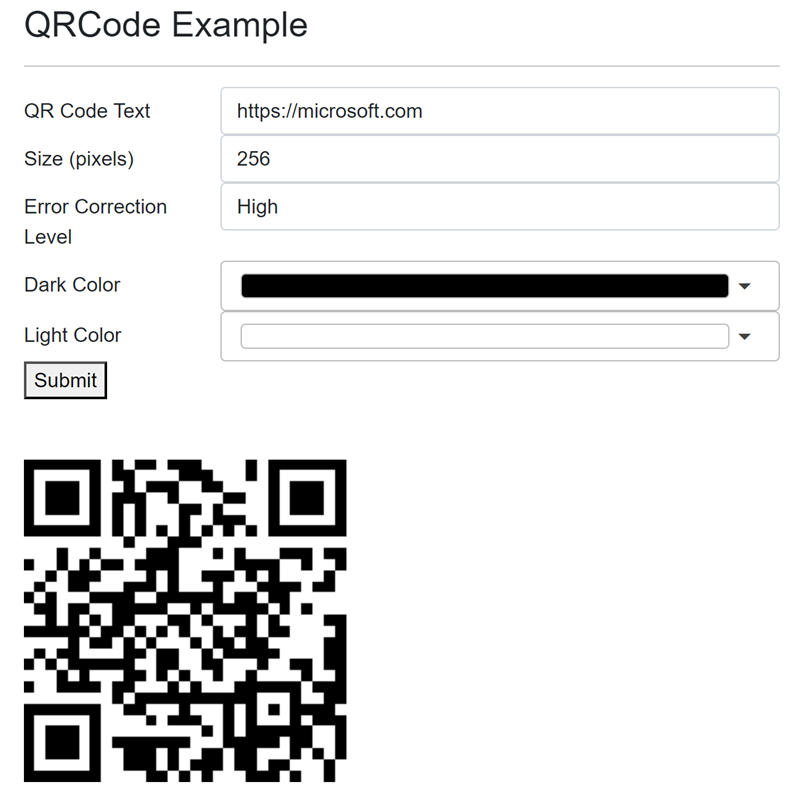
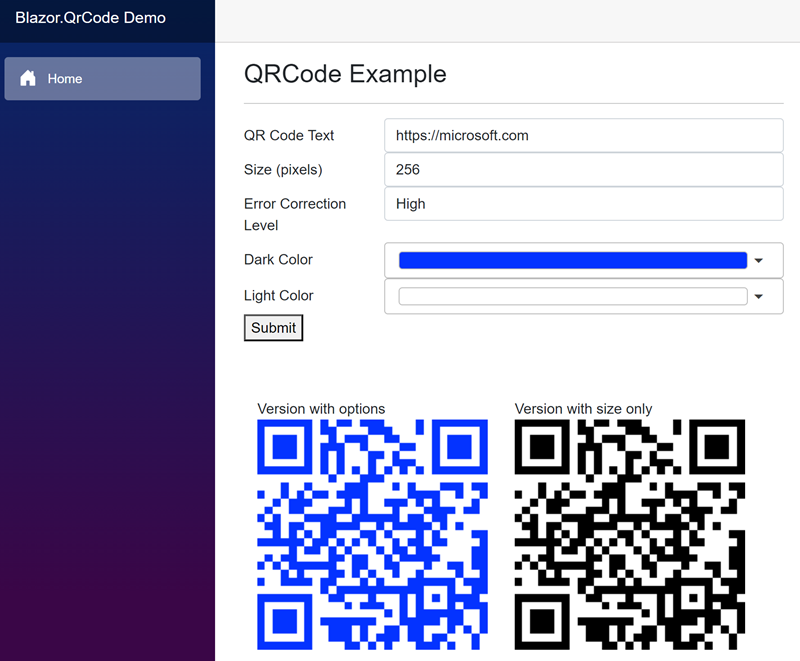
feat: add parameter Size

diff --git a/Blazor.QrCode/QrCode.razor.cs b/Blazor.QrCode/QrCode.razor.cs
@@ -10,31 +10,10 @@ namespace Blazor.QrCode
         private QrCodeModule? _qrCodeModule = null;
 
         private string _text = InitialText;
+        private int? _size = null;
 
         private QrCodeOptions? _options = null;
 
-        protected override async Task OnAfterRenderAsync(bool firstRender)
-        {
-            await base.OnAfterRenderAsync(firstRender).ConfigureAwait(false);
-            if (firstRender)
-            {
-                try
-                {
-                    //if (_qrCodeModule is not null)
-                    //{
-                    //    await _qrCodeModule.DisposeAsync();
-                    //}
-                    //await CreateOrUpdateQrCode(_text);
-                }
-                catch (Exception ex)
-                {
-                    if (ModuleCreator != null)
-                    {
-                        await ModuleCreator.JsInstance.InvokeVoidAsync("console.log", $"***Exception:{ex}").ConfigureAwait(false);
-                    }
-                }
-            }
-        }
 
         /// <summary>
         /// Method invoked when the component has received parameters from its parent in
@@ -49,18 +28,55 @@ namespace Blazor.QrCode
             if (Options is not null && !Options.Equals(_options))
             {
                 _options = Options;
-                _options.SetChangedMode();
-                //if (_text != Text)
+                //_options.SetChangedMode();
+                _text = Text;
+                _size = Size;
+                if (_size.HasValue)
                 {
-                    _text = Text;
+                    _options.Size = _size.Value;
                 }
                 await UpdateTextAsync(_text, _options);
+            }
+
+            // check if size is changed
+            if (_size != Size && _options is null)
+            {
+                _size = Size;
+                if (_size.HasValue)
+                {
+                    // if size is changed then use any latest text
+                    _text = Text;
+
+                    // default size must set modify flag too
+                    var qrCodeOptions = new QrCodeOptions { Size = 0 };
+                    qrCodeOptions.Size = _size.Value;
+                    await UpdateTextAsync(_text, qrCodeOptions);
+                }
+                else
+                {
+                    // if text is changed, change it too
+                    if (_text != Text)
+                    {
+                        _text = Text;
+                        await UpdateTextAsync(_text);
+                    }
+                }
             }
 
             if (_text != Text && _options is null)
             {
                 _text = Text;
-                await UpdateTextAsync(_text);
+                if (_size.HasValue)
+                {
+                    // default size must set modify flag too
+                    var qrCodeOptions = new QrCodeOptions { Size = 0 };
+                    qrCodeOptions.Size = _size.Value;
+                    await UpdateTextAsync(_text, qrCodeOptions);
+                }
+                else
+                {
+                    await UpdateTextAsync(_text);
+                }
             }
         }
 

diff --git a/Blazor.QrCode/QrCodeOptions.cs b/Blazor.QrCode/QrCodeOptions.cs
@@ -4,6 +4,14 @@ namespace Blazor.QrCode;
 
 public class QrCodeOptions : IEquatable<QrCodeOptions>
 {
+    private Color _colorDark = DefaultColorDark;
+
+    private Color _colorLight = DefaultColorLight;
+
+    private EErrorCorrectionLevel _errorCorrectionLevel = DefaultErrorCorrectionLevel;
+
+    private int _size = DefaultSize;
+
     /// <summary>Indicates whether the current object is equal to another object of the same type.</summary>
     /// <param name="other">An object to compare with this object.</param>
     /// <returns>
@@ -55,14 +63,42 @@ public class QrCodeOptions : IEquatable<QrCodeOptions>
         return HashCode.Combine(Size, ColorDark, ColorLight, (int)ErrorCorrectionLevel);
     }
 
-    public void SetChangedMode(bool changed = true)
+    //public void SetChangedMode(bool changed = true)
+    //{
+    //    IsModified = changed;
+    //}
+
+    public Color ColorDark
     {
-        IsChanged = changed;
+        get
+        {
+            return _colorDark;
+        }
+        set
+        {
+            if (_colorDark != value)
+            {
+                _colorDark = value;
+                IsModified = true;
+            }
+        }
     }
 
-    public Color ColorDark { get; set; } = DefaultColorDark;
-
-    public Color ColorLight { get; set; } = DefaultColorLight;
+    public Color ColorLight
+    {
+        get
+        {
+            return _colorLight;
+        }
+        set
+        {
+            if (_colorLight != value)
+            {
+                _colorLight = value;
+                IsModified = true;
+            }
+        }
+    }
 
     public static Color DefaultColorDark { get; } = Color.Black;
 
@@ -72,9 +108,37 @@ public class QrCodeOptions : IEquatable<QrCodeOptions>
 
     public static int DefaultSize { get; } = 256;
 
-    public EErrorCorrectionLevel ErrorCorrectionLevel { get; set; } = DefaultErrorCorrectionLevel;
+    public EErrorCorrectionLevel ErrorCorrectionLevel
+    {
+        get
+        {
+            return _errorCorrectionLevel;
+        }
+        set
+        {
+            if (_errorCorrectionLevel != value)
+            {
+                _errorCorrectionLevel = value;
+                IsModified = true;
+            }
+        }
+    }
 
-    public int Size { get; set; } = DefaultSize;
+    public int Size
+    {
+        get
+        {
+            return _size;
+        }
+        set
+        {
+            if (_size != value)
+            {
+                _size = value;
+                IsModified = true;
+            }
+        }
+    }
 
-    internal bool IsChanged { get; private set; }
+    internal bool IsModified { get; private set; }
 }

diff --git a/Blazor.QrCode/QrCodeModule.cs b/Blazor.QrCode/QrCodeModule.cs
@@ -28,7 +28,7 @@ namespace Blazor.QrCode
         public async Task ShowAsync(string canvasId, string text, QrCodeOptions? qrCodeOptions)
         {
             //await ModuleRef.InvokeVoidAsync("showParameters", canvasId, text);
-            if (qrCodeOptions != null && qrCodeOptions.IsChanged)
+            if (qrCodeOptions != null && qrCodeOptions.IsModified)
             {
                 if (_qrCodeInstance is not null)
                 {

diff --git a/README.md b/README.md
@@ -1,9 +1,4 @@
 # Blazor.QrCode
-> **Note** Not finished yet.  
-TODO:
- - [x] use version number into github yml
- - [ ] publish nuget package from pipeline
- - [x] update documentation
 
 ## Introduction
 
@@ -37,7 +32,7 @@ dotnet add package Blazor.QrCode
 
  Using MS VS Manage NuGet Packages search for `Blazor.QrCode`
 
- - Add dependency
+ - Add dependencies
 
  You need to add 2 lines into index.html
 ```html
@@ -52,13 +47,30 @@ Simple use with default settings:
 <QrCode CanvasId="AnyId" Text="Any text"/>
 ```
 
-Usage with customized settings:
+Using with text and size in pixel:
+```csharp
+<QrCode CanvasId="AnyId" Text="Any text" Size="64"/>
+```
+
+Using with customized settings:
 ```csharp
 <QrCode CanvasId="AnyId" Text="Any text" Options="_options" />
 @code{
- private QrCodeOptions _options = new QRCodeOptons(){Size = 128};
+ private QrCodeOptions _options = new QRCodeOptons(){Color = Color.Blue};
 }
 ```
+
+> **Note:** If you set both Size for Attribute and Options, then Attribute takes precedence.
+
+
+## Options
+
+| Name | Default |
+|--------|--------|
+| Size  | 256    |
+| ColorDark | Black  |
+| ColorLight | White |
+| ErrorCorrectionLevel | High|
 
 ## Features
 
@@ -69,5 +81,5 @@ Blazor component for QR code generation. You can change:
  - Error correction level
 
 ## Releases
-
+1.1 Added property Size
 1.0 Initial .Net8.0 release
